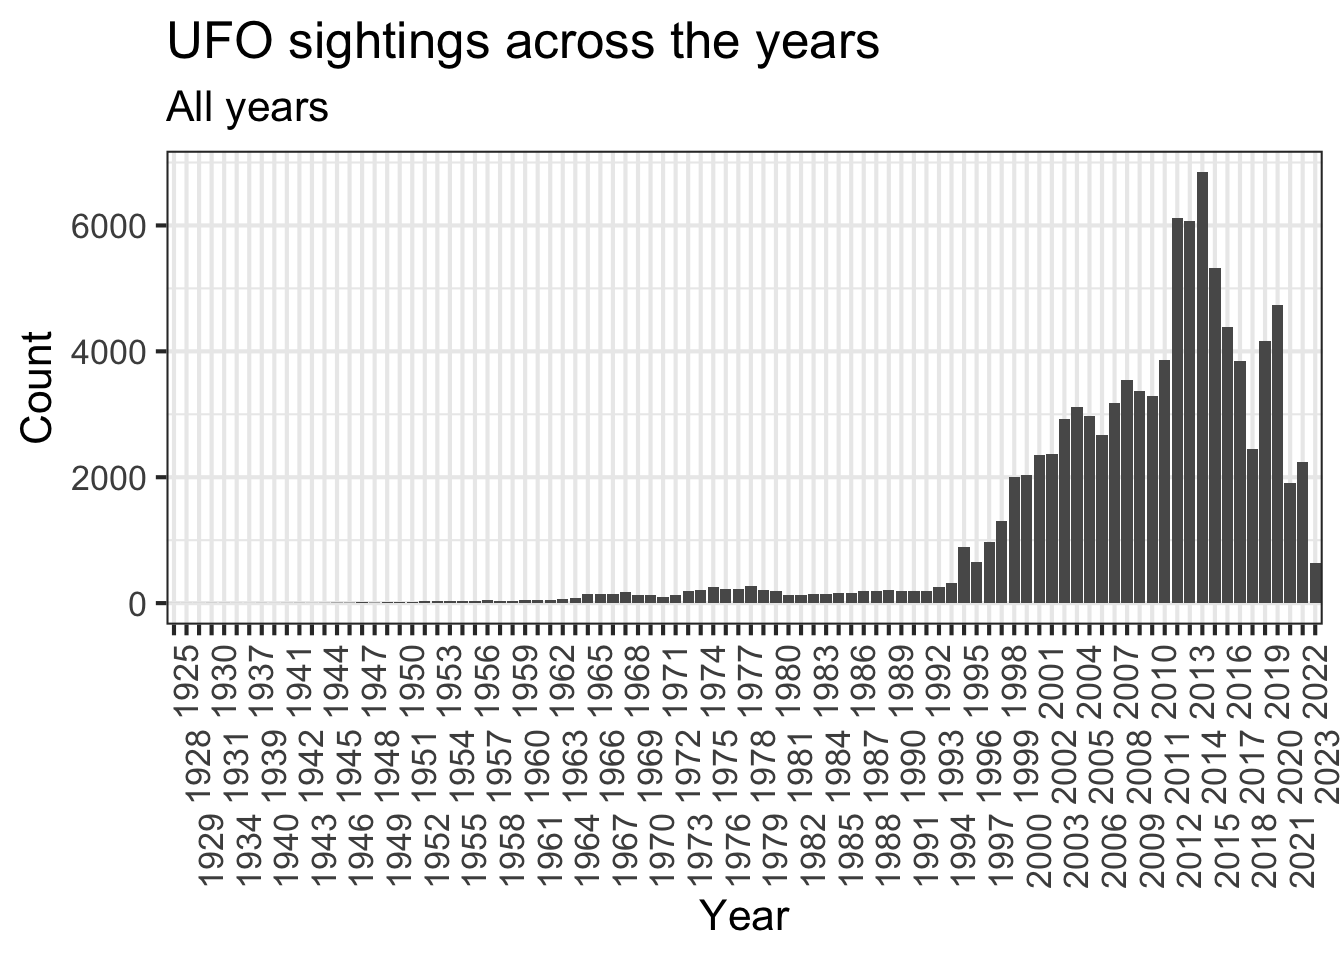
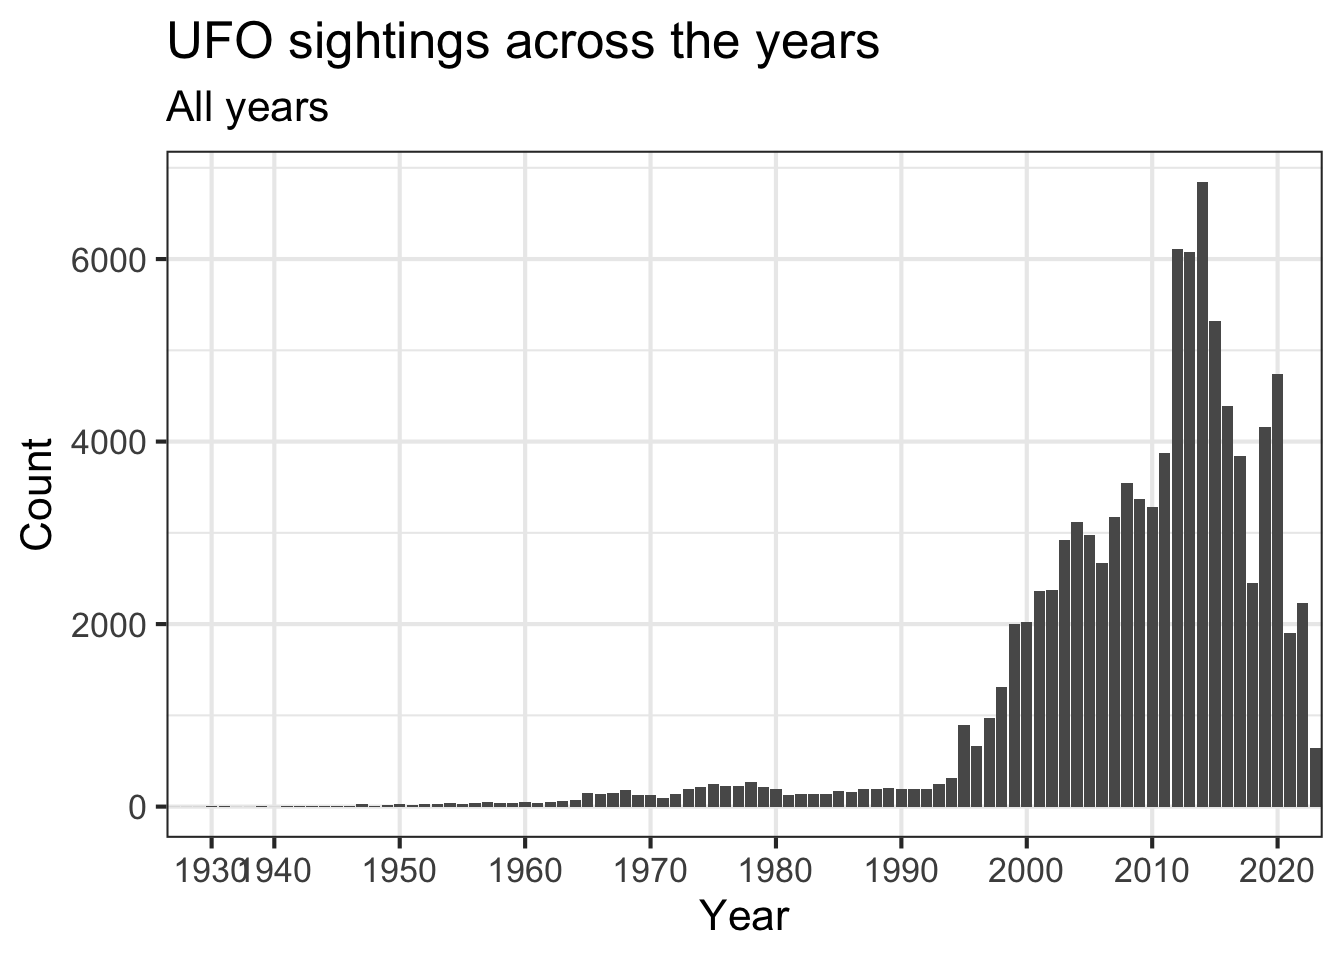
All of day 5

Changed region(s): [[0.0, 0.1562, 1.0, 0.9375]]

diff --git a/Day-5.html b/Day-5.html
@@ -406,8 +406,8 @@ $(document).ready(function () {
 <h4>Using the clean up available</h4>
 <pre><code>## here() starts at /Users/au339660/Library/CloudStorage/OneDrive-Aarhusuniversitet/Dokumenter/Gemt fra undervisning/Advanced R/rmarkdown-website-template</code></pre>
 </div>
-<div id="now-what" class="section level3">
-<h3>Now what</h3>
+<div id="bhv-contribution" class="section level3">
+<h3>BHV contribution</h3>
 <pre class="r"><code>#unlike on the website there this data set says nobody have images.
 
 ufo_sightings %&gt;% 
@@ -445,8 +445,8 @@ ufo_sightings2 &lt;- ufo_sightings %&gt;%
  ufo_sightings2 %&gt;% ggplot(aes(year)) +
    geom_bar() +
    theme_bw(base_size = 16) +
-   theme(axis.text.x = element_text(angle = 90)) +
-   scale_x_discrete(guide = guide_axis(n.dodge=3)) +
+   scale_x_discrete(breaks = seq(1900, 2023, 10)) +
+   # scale_x_discrete(guide = guide_axis(n.dodge=3)) +
    labs(title = &quot;UFO sightings across the years&quot;,
         subtitle = &quot;All years&quot;,
         y = &quot;Count&quot;,
@@ -459,8 +459,7 @@ ufo_sightings2 &lt;- ufo_sightings %&gt;%
    ggplot(aes(year)) +
    geom_bar() +
    theme_bw(base_size = 16) +
-   theme(axis.text.x = element_text(angle = 90)) +
-   scale_x_discrete(guide = guide_axis(n.dodge=3)) +
+   scale_x_discrete(breaks = seq(1990, 2023, 5)) +
    labs(title = &quot;UFO sightings across the years&quot;,
         subtitle = &quot;since 1990&quot;,
         y = &quot;Count&quot;,
@@ -483,7 +482,7 @@ ufo_sightings2 %&gt;%  ggplot(aes(day_part, duration_seconds , fill = day_part))
 <pre><code>## Warning: Removed 2 rows containing non-finite values
 ## (`stat_boxplot()`).</code></pre>
 <p><img src="Day-5_files/figure-html/unnamed-chunk-4-5.png" width="672" /></p>
-<pre class="r"><code>ufo_sightings2 %&gt;% filter(country_code == &quot;DK&quot;) %&gt;% view()
+<pre class="r"><code># ufo_sightings2 %&gt;% filter(country_code == &quot;DK&quot;) %&gt;% view()
 dk &lt;- ufo_sightings2 %&gt;% filter(country_code == &quot;DK&quot;) %&gt;% 
   mutate(muni = case_when(state == &quot;South Denmark&quot; ~ &quot;syddanmark&quot;,
                           state == &quot;Capital Region&quot; ~ &quot;hovedstaden&quot;,
@@ -515,8 +514,28 @@ plotDK::plotDK(.,
                guide = &quot;legend&quot;,
                name = &quot;Count&quot;
     ) +
-  labs(title = &quot;UFO sightings in by region Denmark&quot;,)</code></pre>
+  labs(title = &quot;UFO sightings in Denmark by region&quot;)</code></pre>
 <p><img src="Day-5_files/figure-html/unnamed-chunk-4-6.png" width="672" /></p>
+<pre class="r"><code>counts &lt;- ufo_sightings2 %&gt;% group_by(year) %&gt;% summarize(n = n())
+counts</code></pre>
+<pre><code>## # A tibble: 92 × 2
+##    year      n
+##    &lt;chr&gt; &lt;int&gt;
+##  1 1925      1
+##  2 1928      1
+##  3 1929      1
+##  4 1930      2
+##  5 1931      2
+##  6 1934      1
+##  7 1937      1
+##  8 1939      2
+##  9 1940      1
+## 10 1941      2
+## # ℹ 82 more rows</code></pre>
+<pre class="r"><code>sum(counts$n
+    )</code></pre>
+<pre><code>## [1] 96429</code></pre>
+<pre class="r"><code># ufo_sightings2 %&gt;% filter(summary %in% str_detect(summary, &quot;whisper&quot;))</code></pre>
 </div>
 
 

diff --git a/Day-3.html b/Day-3.html
@@ -507,7 +507,7 @@ monte_carlo &lt;- function(N) {
 
 system.time(res &lt;- monte_carlo(N))</code></pre>
 <pre><code>##    user  system elapsed 
-##   0.390   0.069   0.464</code></pre>
+##   0.408   0.062   0.473</code></pre>
 <pre class="r"><code>res</code></pre>
 <pre><code>## [1] 0.33288</code></pre>
 <pre class="r"><code># x and y outside
@@ -528,7 +528,7 @@ hits &lt;- 0
 }
 system.time(res &lt;- monte_carlo2(N))</code></pre>
 <pre><code>##    user  system elapsed 
-##   0.011   0.000   0.012</code></pre>
+##   0.012   0.001   0.013</code></pre>
 <pre class="r"><code>res</code></pre>
 <pre><code>## [1] 0.332765</code></pre>
 <pre class="r"><code># take 3
@@ -545,7 +545,7 @@ output &lt;- output %&gt;% mutate(below = ifelse(why &lt; ex^2, 1L, 0L))
 }
 system.time(res &lt;- monte_carlo3(N))</code></pre>
 <pre><code>##    user  system elapsed 
-##   0.006   0.001   0.008</code></pre>
+##   0.007   0.000   0.007</code></pre>
 <pre class="r"><code>res</code></pre>
 <pre><code>## [1] 0.33413</code></pre>
 <pre class="r"><code># Florian&#39;s solution
@@ -555,7 +555,7 @@ monte_carlo4 &lt;- function(N) {
 }
 system.time(monte_carlo4(N))</code></pre>
 <pre><code>##    user  system elapsed 
-##   0.003   0.000   0.003</code></pre>
+##   0.002   0.001   0.003</code></pre>
 <pre class="r"><code>res</code></pre>
 <pre><code>## [1] 0.33413</code></pre>
 </div>
@@ -575,7 +575,7 @@ system.time({
   p &lt;- count / N
 })</code></pre>
 <pre><code>##    user  system elapsed 
-##   0.101   0.020   0.121</code></pre>
+##   0.099   0.018   0.118</code></pre>
 <pre class="r"><code>p</code></pre>
 <pre><code>## [1] 0.88454</code></pre>
 <pre class="r"><code># v 2
@@ -591,7 +591,7 @@ system.time({
   p &lt;- sum(count(p[&quot;x&quot;]))/N
 })</code></pre>
 <pre><code>##    user  system elapsed 
-##   0.005   0.000   0.006</code></pre>
+##   0.005   0.001   0.006</code></pre>
 <pre class="r"><code>p</code></pre>
 <pre><code>## [1] 0.88454</code></pre>
 <pre class="r"><code>rm(p,N)
@@ -623,14 +623,14 @@ system.time({
   }
 })</code></pre>
 <pre><code>##    user  system elapsed 
-##   0.230   0.003   0.233</code></pre>
+##   0.233   0.001   0.235</code></pre>
 <pre class="r"><code># Florian&#39;s solution 
 
 system.time({
     mat_big2 &lt;- sweep(mat_big, 2, 10 * last_row, &quot;*&quot;)
 })</code></pre>
 <pre><code>##    user  system elapsed 
-##   0.002   0.000   0.001</code></pre>
+##   0.002   0.000   0.002</code></pre>
 </div>
 <div id="pt.-3" class="section level4">
 <h4>pt. 3</h4>
